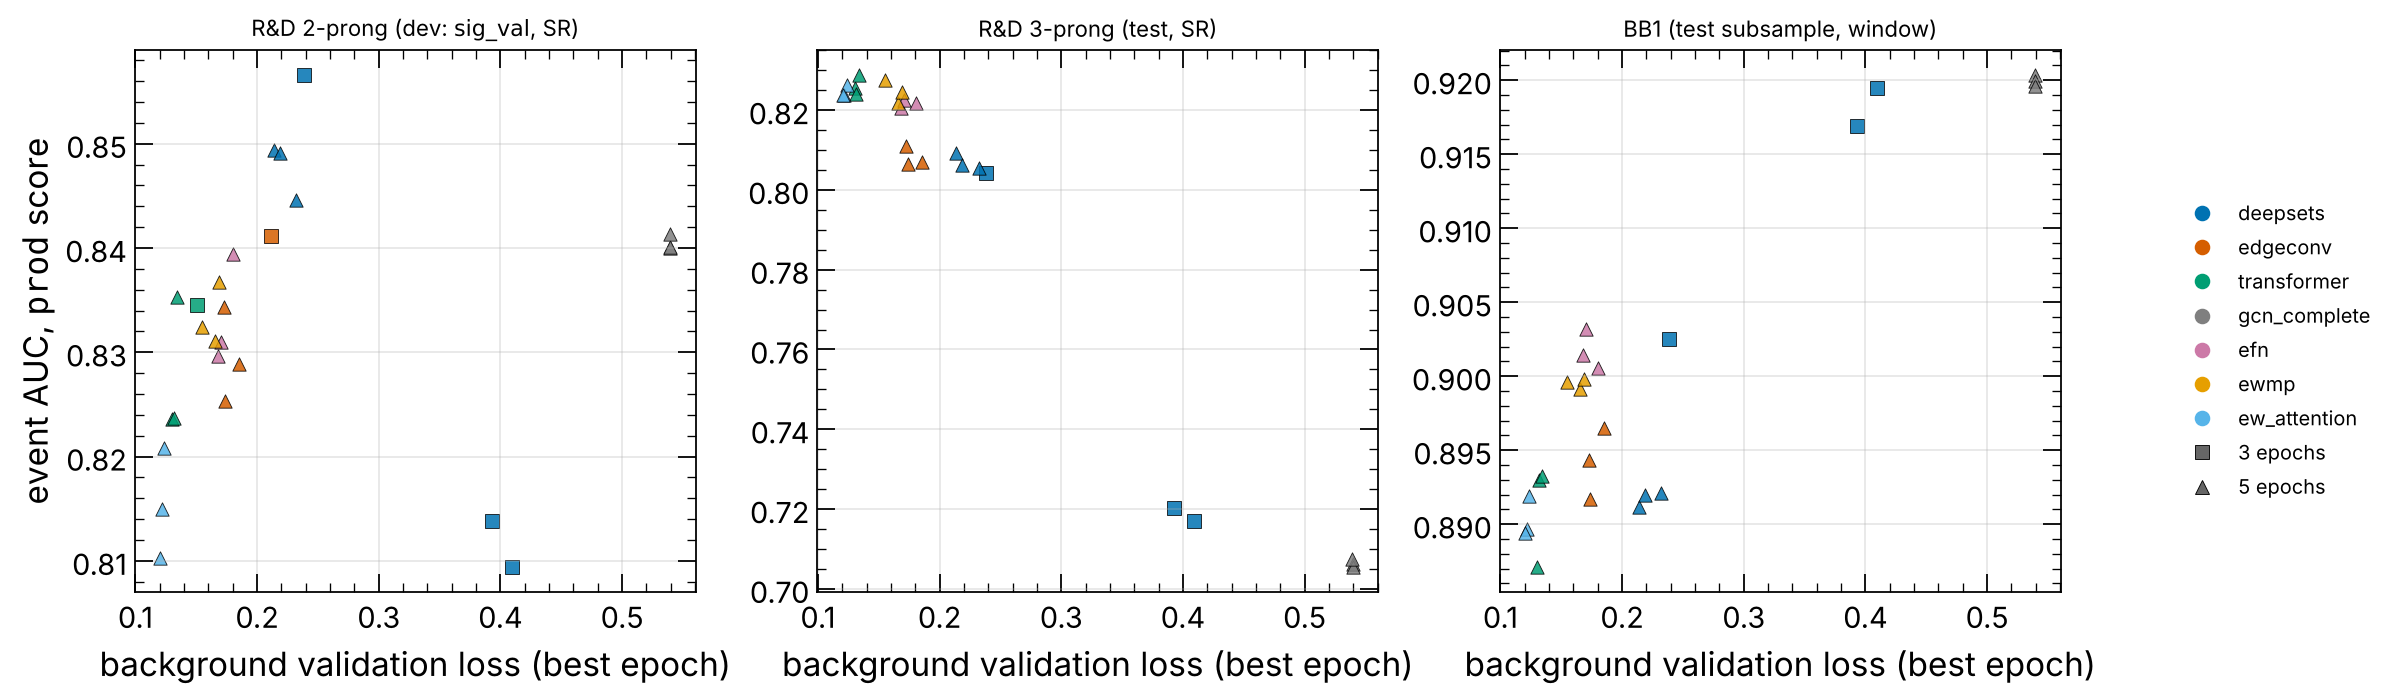
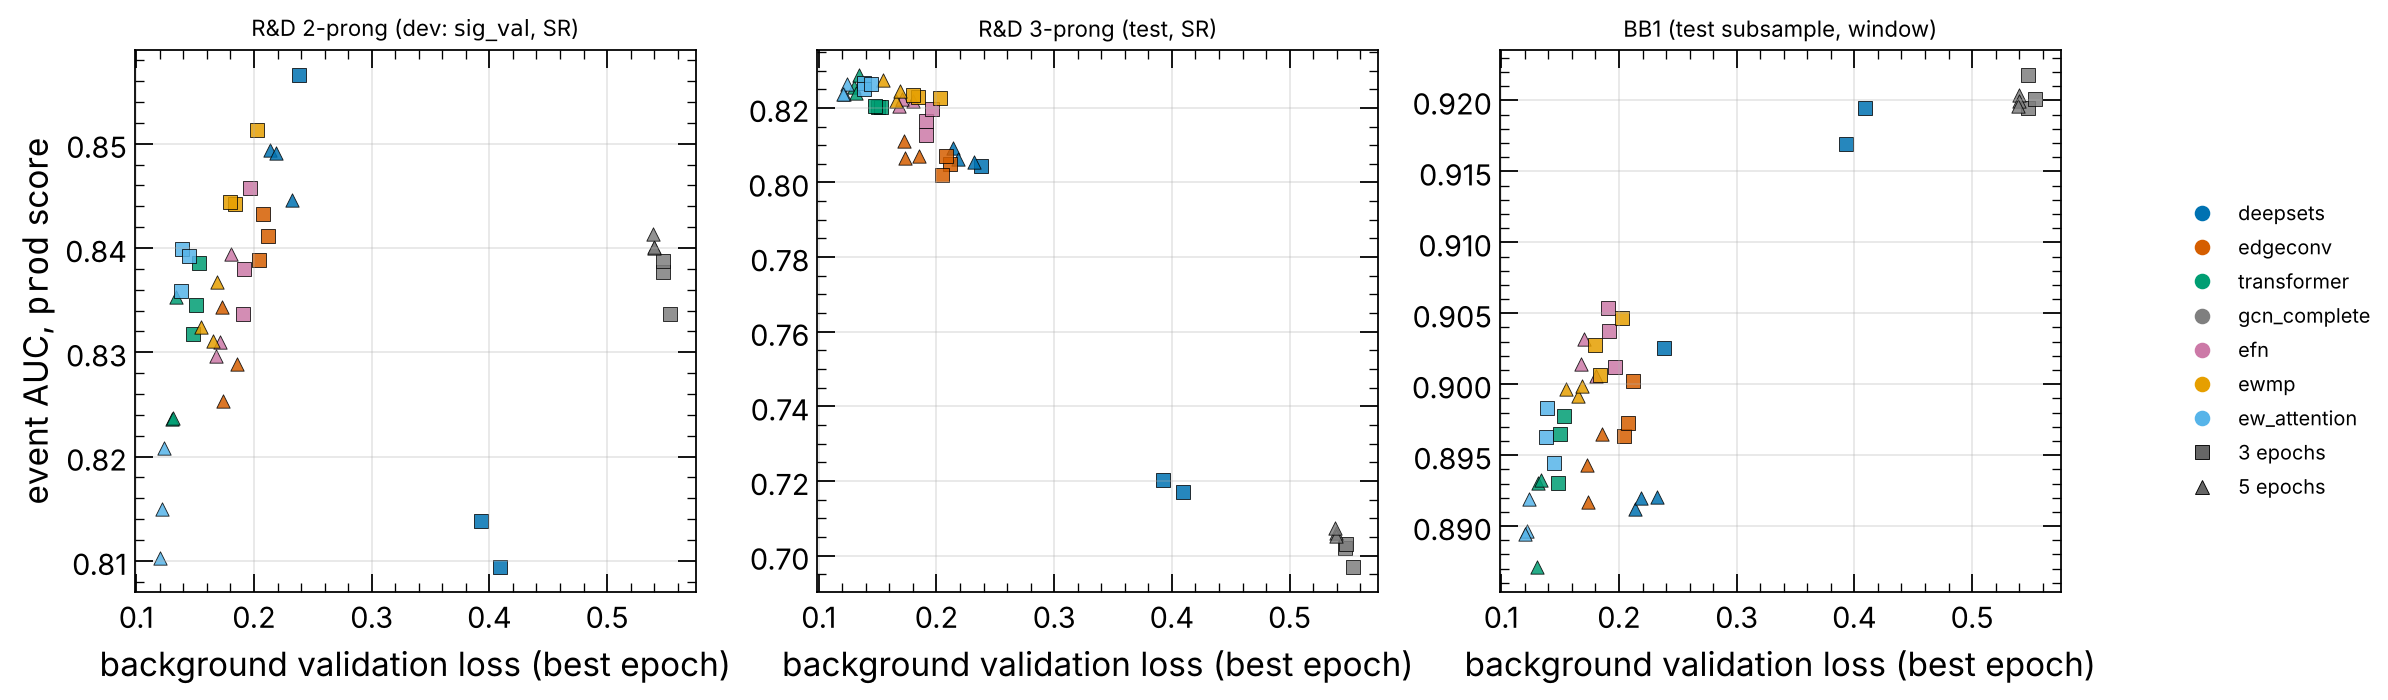
E2: report labels; interim report
Claude-Session: https://claude.ai/code/session_01Dhc1WDGjxUWxTwRYek3ctf

diff --git a/scripts/e2_report.py b/scripts/e2_report.py
@@ -214,10 +214,10 @@ def _label(cfg: str) -> tuple[str, str, str]:
         if rest.startswith(enc + "_"):
             tail = rest[len(enc) + 1 :]
             if kind == "stw":
-                return enc, "latent width", tail[1:]
+                return enc, "latent width", f"d = {tail[1:]}"
             if kind == "stp":
                 return enc, "pooling", tail
-            return enc, "constituents", tail[1:]
+            return enc, "constituents", f"n = {tail[1:]}"
     return rest, kind, ""
 
 

diff --git a/results/study/ablations.md b/results/study/ablations.md
@@ -8,3 +8,19 @@ standard deviation); `flagged` = runs whose `best_val_loss` exceeds 1.5 × the m
 
 | encoder | ablation | setting | seeds | best val loss | AUC (SR) | max SIC (SR) | 1/ε_B @ ε_S=0.3 | AUC (full m_jj) | flagged |
 |---|---|---|---|---|---|---|---|---|---|
+| deepsets | latent width | d = 2 | 1 | 0.4050 | 0.812 | 1.58 | 9.1 | 0.810 | 0 |
+| deepsets | latent width | d = 8 | 1 | 0.2866 | 0.850 | 1.72 | 17.0 | 0.847 | 0 |
+| deepsets | latent width | d = 16 | 1 | 0.2904 | 0.856 | 1.75 | 19.0 | 0.851 | 0 |
+| deepsets | latent width | d = 32 | 1 | 0.5181 | 0.790 | 1.52 | 7.3 | 0.789 | 0 |
+| deepsets | pooling | pma | 1 | 0.5154 | 0.779 | 1.51 | 6.7 | 0.779 | 0 |
+| deepsets | pooling | weighted | 1 | 0.2523 | 0.868 | 1.87 | 21.9 | 0.863 | 0 |
+| deepsets | constituents | n = 30 | 1 | 0.3361 | 0.840 | 1.65 | 14.1 | 0.835 | 0 |
+| edgeconv | latent width | d = 2 | 1 | 0.3977 | 0.813 | 1.57 | 9.2 | 0.811 | 0 |
+| edgeconv | latent width | d = 8 | 1 | 0.2315 | 0.847 | 1.69 | 18.6 | 0.844 | 0 |
+| edgeconv | latent width | d = 16 | 1 | 0.2405 | 0.847 | 1.68 | 19.1 | 0.844 | 0 |
+| edgeconv | latent width | d = 32 | 1 | 0.2756 | 0.849 | 1.72 | 17.3 | 0.846 | 0 |
+| edgeconv | constituents | n = 30 | 1 | 0.2511 | 0.839 | 1.62 | 16.4 | 0.835 | 0 |
+| ewmp | latent width | d = 2 | 1 | 0.3584 | 0.819 | 1.59 | 10.4 | 0.816 | 0 |
+| ewmp | latent width | d = 8 | 1 | 0.2315 | 0.858 | 1.76 | 20.0 | 0.853 | 0 |
+| ewmp | latent width | d = 16 | 1 | 0.2134 | 0.853 | 1.70 | 19.3 | 0.848 | 0 |
+| ewmp | latent width | d = 32 | 1 | 0.3188 | 0.824 | 1.54 | 12.5 | 0.822 | 0 |
